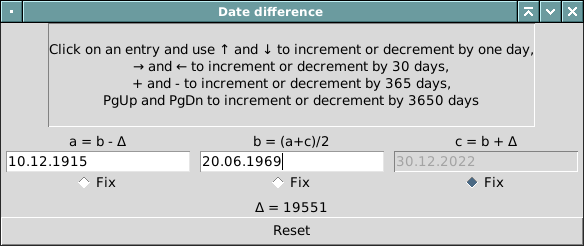
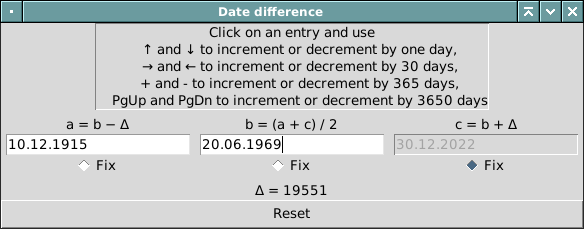
UI cosmetic changes

Changed region(s): [[0.0, 0.0306, 1.0, 0.7642], [0.0, 0.7948, 1.0, 0.8865], [0.4623, 0.917, 0.5548, 0.9782]]

diff --git a/src/closer-in-time/window.py b/src/closer-in-time/window.py
@@ -4,12 +4,11 @@ from tkinter import Tk, StringVar
 from tkinter.ttk import Label, Button
 
 
-HOWTO = """
-Click on an entry and use ↑ and ↓ to increment or decrement by one day,
-→ and ← to increment or decrement by 30 days,
-+ and - to increment or decrement by 365 days,
-PgUp and PgDn to increment or decrement by 3650 days
-"""
+HOWTO = """Click on an entry and use
+    ↑ and ↓ to increment or decrement by one day,
+    → and ← to increment or decrement by 30 days,
+    + and - to increment or decrement by 365 days,
+    PgUp and PgDn to increment or decrement by 3650 days"""
 
 
 class Window(Tk):
@@ -25,8 +24,8 @@ class Window(Tk):
         self._howto_label = Label(self, justify="center",
                                         text=HOWTO, relief="ridge")
         
-        a = Column(self, label="a = b - Δ")
-        b = Column(self, label="b = (a+c)/2")
+        a = Column(self, label="a = b − Δ")
+        b = Column(self, label="b = (a + c) / 2")
         c = Column(self, label="c = b + Δ")
         self.columns = (a, b, c)
         

diff --git a/src/closer-in-time/column.py b/src/closer-in-time/column.py
@@ -16,7 +16,6 @@ KEY_TO_DELTA: Dict[str, int] = {
 
 
 class Column(Frame):
-
     def __init__(self, parent, *, label):
         super().__init__(parent, border=5)
         
